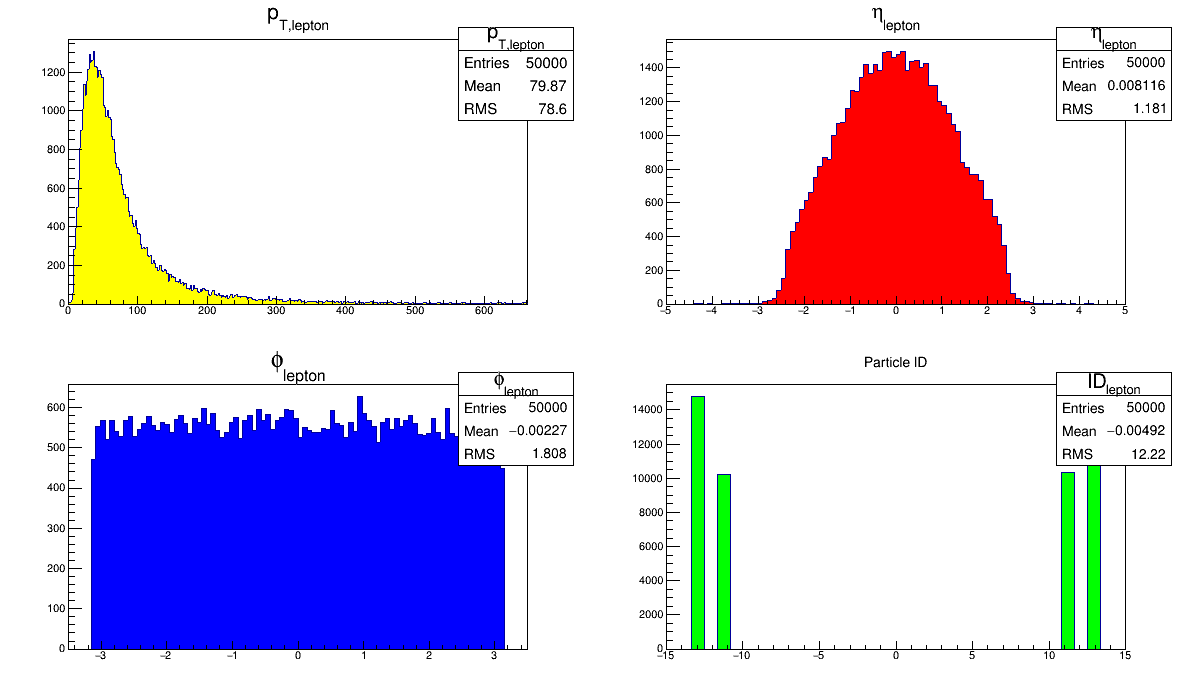
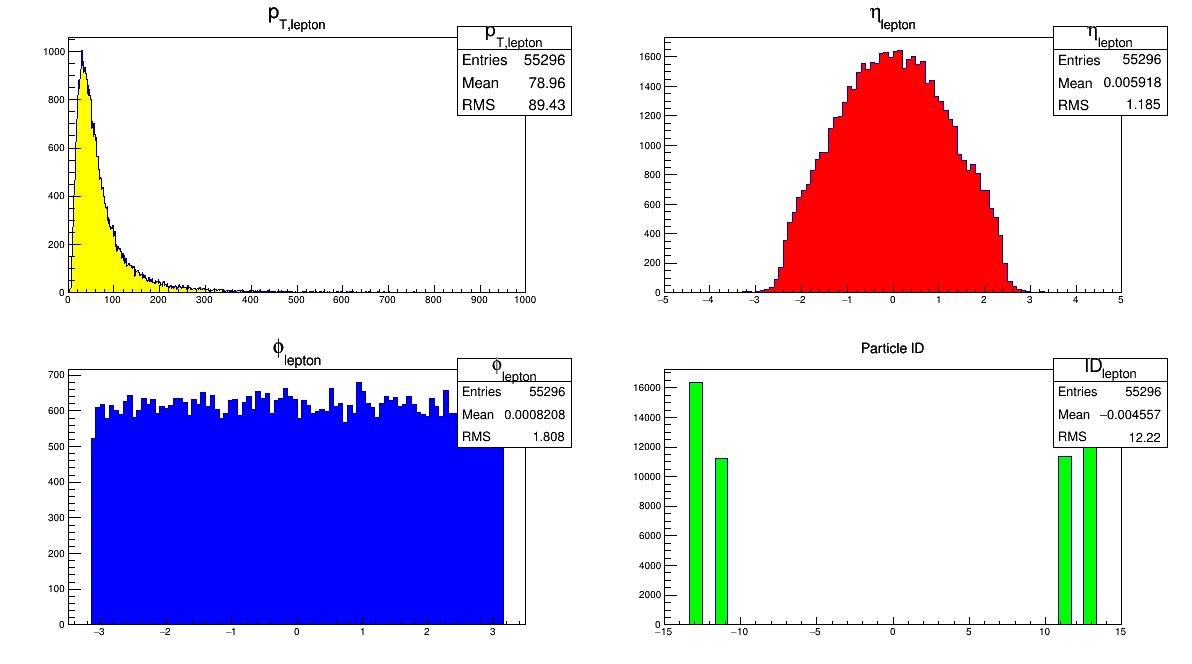
Uploading resized plots

diff --git a/WpWmJJ/myselector.C b/WpWmJJ/myselector.C
@@ -27,11 +27,12 @@
 #include <TH2.h>
 #include <TStyle.h>
 
-#define ptbins 1000
+#define ptbins 800
 #define etabins 100
 #define phibins 100
 #define mbins 1000
 TString opzioni, dir;
+unsigned int entries = 0;
 
 void myselector::Begin(TTree * /*tree*/)
 {
@@ -39,15 +40,18 @@ void myselector::Begin(TTree * /*tree*/)
    // When running with PROOF Begin() is only called on the client.
    // The tree argument is deprecated (on PROOF 0 is passed).
 
-   _histo_LHElepton_pt = new TH1F ("p_{T,lepton}","p_{T,lepton}",ptbins,0,2000.);
+   //_histo_LHElepton_pt = new TH1F ("p_{T,lepton}","p_{T,lepton}",ptbins,0,2000.);
+   _histo_LHElepton_pt = new TH1F ("p_{T,lepton}","p_{T,lepton}",ptbins,0,1000.);
    _histo_LHElepton_eta = new TH1F ("#eta_{lepton}","#eta_{lepton}",etabins,-5,5);
    _histo_LHElepton_phi = new TH1F ("#phi_{lepton}","#phi_{lepton}",phibins,-3.5,3.5);
    _histo_LHElepton_id = new TH1F ("ID_{lepton}","Particle ID",36,18,18);
-   _histo_LHEparton_pt = new TH1F ("p_{T,parton}","p_{T,parton}",ptbins,0,2000.);
+   //_histo_LHEparton_pt = new TH1F ("p_{T,parton}","p_{T,parton}",ptbins,0,2000.);
+   _histo_LHEparton_pt = new TH1F ("p_{T,parton}","p_{T,parton}",ptbins,0,200.);
    _histo_LHEparton_eta = new TH1F ("#eta_{parton}","#eta_{parton}",etabins,-8,8);
    _histo_LHEparton_phi = new TH1F ("#phi_{parton}","#phi_{parton}",phibins,-3.5,3.5);
    _histo_LHEparton_id = new TH1F ("ID_{parton}","Particle ID",36,-18,18);
-   _histo_metLHE_pt = new TH1F ("p_{T,MET}","p_{T,MET}",ptbins,0,2200.);
+   //_histo_metLHE_pt = new TH1F ("p_{T,MET}","p_{T,MET}",ptbins,0,2200.);
+   _histo_metLHE_pt = new TH1F ("p_{T,MET}","p_{T,MET}",ptbins,0,1000.);
    _histo_metLHE_eta = new TH1F ("#eta_{MET}","#eta_{MET}",etabins,-5,5);
    _histo_metLHE_phi = new TH1F ("#phi_{MET}","#phi_{MET}",phibins,-3.5,3.5);
    _histo_jj_deltaeta = new TH1F ("#Delta#eta", "#Delta#eta_{jet-jet}", etabins, 0, +10);
@@ -58,12 +62,13 @@ void myselector::Begin(TTree * /*tree*/)
    _histo2_mlvlv_t_mlvlv = new TH2F ("M^{T}_{l#nul#nu} vs M_{l#nul#nu}", "M^{T}_{l#nul#nu} vs M_{l#nul#nu}", mbins, 0., 1500., ptbins, 0., 1200.);
    TString option = GetOption();
    opzioni = option;
+   
    switch(opzioni){
       case "selection":
-         dir("Selection");
+         opzioni = "Selection/";
          break;
       case "raw":
-         dir("Raw");
+         opzioni = "Raw/";
          break;
    }
 
@@ -172,6 +177,8 @@ Bool_t myselector::Process(Long64_t entry)
 
    }
 
+   entries = entry;
+
    return kTRUE;
 }
 
@@ -188,11 +195,14 @@ void myselector::Terminate()
    // The Terminate() function is the last function to be called during
    // a query. It always runs on the client, it can be used to present
    // the results graphically or save the results to file.
-
+   
+   TStyle *th1Style = new TStyle(*gStyle);
+   th1Style->cd();
    gStyle->SetOptFit(1111);
-   TString file;
+   //TString file;
 
-   TCanvas* c1 = new TCanvas ("c1", "c1", 1200, 800);
+   //TCanvas* c1 = new TCanvas ("c1", "c1", 1200, 800);
+   TCanvas* c1 = new TCanvas ("c1", "c1", 1196, 690);
    c1->Divide(2, 2);
    _histo_LHElepton_pt->SetFillColor(kYellow);
    _histo_LHElepton_eta->SetFillColor(kRed);
@@ -206,9 +216,8 @@ void myselector::Terminate()
    _histo_LHElepton_phi->Draw();
    c1->cd(4);
    _histo_LHElepton_id->Draw();
-   //c1->Print("Selection/leptons.png");
 
-   TCanvas* c2 = new TCanvas ("c2", "c2", 1200, 800);
+   TCanvas* c2 = new TCanvas ("c2", "c2", 1196, 690);
    c2->Divide(2, 2);
    _histo_LHEparton_pt->SetFillColor(kYellow);
    _histo_LHEparton_eta->SetFillColor(kRed);
@@ -222,9 +231,8 @@ void myselector::Terminate()
    _histo_LHEparton_phi->Draw();
    c2->cd(4);
    _histo_LHEparton_id->Draw();
-   //c2->Print("Selection/partons.png");
 
-   TCanvas* c3 = new TCanvas ("c3", "c3", 1200, 800);
+   TCanvas* c3 = new TCanvas ("c3", "c3", 1196, 690);
    c3->Divide(2, 2);
    _histo_metLHE_pt->SetFillColor(kYellow);
    _histo_metLHE_eta->SetFillColor(kRed);
@@ -235,37 +243,75 @@ void myselector::Terminate()
    _histo_metLHE_eta->Draw();
    c3->cd(3);
    _histo_metLHE_phi->Draw();
-   //c3->Print("Selection/MET.png");
 
    TCanvas* c4 = new TCanvas ("c4", "c4", 1200, 800);
    _histo_jj_deltaeta->SetFillColor(kYellow);
    _histo_jj_deltaeta->Draw();
-   //c4->Print("Selection/deltaeta_jj.png");
 
    TCanvas* c5 = new TCanvas ("c5", "c5", 1200, 800);
    _histo_jj_m->SetFillColor(kYellow);
    _histo_jj_m->Draw();
-   //c5->Print("Selection/mass_jj.png");
 
    TCanvas* c6 = new TCanvas ("c6", "c6", 1200, 800);
    _histo_LHEmlvlv->SetFillColor(kYellow);
    _histo_LHEmlvlv->Draw();
-   //c6->Print("Selection/mass_lvlv.png");
    //TF1* fitfunc = new TF1 ("fitfunc","gaus", 124.995, 125.005);		//Fit della risonanza dell'Higgs
    //fitfunc->SetParameter(1, 125.0);
    //fitfunc->SetParameter(2, 0.008);
    //_histo_LHEmlvlv->Fit("fitfunc", "R");
 
+   /*TStyle *th2Style = new TStyle(*gStyle);
+   th2Style->SetStatX(0.45);
+   th2Style->SetStatY(0.45);
+   th2Style->cd();*/
+
    TCanvas* c7 = new TCanvas ("c7", "c7", 1200, 800);
    _histo2_lepton_pt_mlvlv->Draw("COLZ");
-   //c7->Print("Selection/pt_lepton1_vs_mlvlv.png");
 
    TCanvas* c8 = new TCanvas ("c8", "c8", 1200, 800);
    _histo2_met_pt_mlvlv->Draw("COLZ");
-   //c8->Print("Selection/met_pt_vs_mlvlv.png");
-
+   
    TCanvas* c9 = new TCanvas ("c9", "c9", 1200, 800);
    _histo2_mlvlv_t_mlvlv->Draw("COLZ");
-   //c9->Print("Selection/mlvlv_t_vs_mlvlv.png");
+
+   /*if(entries > 35000) {
+
+   		if(opzioni == "selection") {
+			c1->Print("Selection/leptons.png");
+   			c2->Print("Selection/partons.png");
+  	 		c3->Print("Selection/MET.png");
+  	 		c4->Print("Selection/deltaeta_jj.png");
+  	 		c5->Print("Selection/mass_jj.png");
+   			c6->Print("Selection/mass_lvlv.png");
+   			//c7->Print("Selection/pt_lepton1_vs_mlvlv.png");
+   			//c8->Print("Selection/met_pt_vs_mlvlv.png");
+			//c9->Print("Selection/mlvlv_t_vs_mlvlv.png");
+   		}
+
+   		if(opzioni == "raw") {
+			c1->Print("Raw/leptons.png");
+   			c2->Print("Raw/partons.png");
+  	 		c3->Print("Raw/MET.png");
+  	 		c4->Print("Raw/deltaeta_jj.png");
+  	 		c5->Print("Raw/mass_jj.png");
+   			c6->Print("Raw/mass_lvlv.png");
+   			//c7->Print("Raw/pt_lepton1_vs_mlvlv.png");
+   			//c8->Print("Raw/met_pt_vs_mlvlv.png");
+			//c9->Print("Raw/mlvlv_t_vs_mlvlv.png");
+  		}
+
+	}*/
+
+	if(entries > 35000) {
+		c1->Print(dir + "leptons.png");
+   		c2->Print(dir + "partons.png");
+  	 	c3->Print(dir + "MET.png");
+  	 	c4->Print(dir + "deltaeta_jj.png");
+  	 	c5->Print(dir + "mass_jj.png");
+   		c6->Print(dir + "mass_lvlv.png");
+   		//c7->Print(dir + "pt_lepton1_vs_mlvlv.png");
+   		//c8->Print(dir + "met_pt_vs_mlvlv.png");
+		//c9->Print(dir + "mlvlv_t_vs_mlvlv.png");
+	}
 
 }

diff --git a/WpWpJJ/myselector.C b/WpWpJJ/myselector.C
@@ -27,11 +27,12 @@
 #include <TH2.h>
 #include <TStyle.h>
 
-#define ptbins 1000
+#define ptbins 800
 #define etabins 100
 #define phibins 100
 #define mbins 1000
 TString opzioni, dir;
+unsigned int entries = 0;
 
 void myselector::Begin(TTree * /*tree*/)
 {
@@ -39,15 +40,18 @@ void myselector::Begin(TTree * /*tree*/)
    // When running with PROOF Begin() is only called on the client.
    // The tree argument is deprecated (on PROOF 0 is passed).
 
-   _histo_LHElepton_pt = new TH1F ("p_{T,lepton}","p_{T,lepton}",ptbins,0,2000.);
+   //_histo_LHElepton_pt = new TH1F ("p_{T,lepton}","p_{T,lepton}",ptbins,0,2000.);
+   _histo_LHElepton_pt = new TH1F ("p_{T,lepton}","p_{T,lepton}",ptbins,0,1000.);
    _histo_LHElepton_eta = new TH1F ("#eta_{lepton}","#eta_{lepton}",etabins,-5,5);
    _histo_LHElepton_phi = new TH1F ("#phi_{lepton}","#phi_{lepton}",phibins,-3.5,3.5);
    _histo_LHElepton_id = new TH1F ("ID_{lepton}","Particle ID",36,18,18);
-   _histo_LHEparton_pt = new TH1F ("p_{T,parton}","p_{T,parton}",ptbins,0,2000.);
+   //_histo_LHEparton_pt = new TH1F ("p_{T,parton}","p_{T,parton}",ptbins,0,2000.);
+   _histo_LHEparton_pt = new TH1F ("p_{T,parton}","p_{T,parton}",ptbins,0,200.);
    _histo_LHEparton_eta = new TH1F ("#eta_{parton}","#eta_{parton}",etabins,-8,8);
    _histo_LHEparton_phi = new TH1F ("#phi_{parton}","#phi_{parton}",phibins,-3.5,3.5);
    _histo_LHEparton_id = new TH1F ("ID_{parton}","Particle ID",36,-18,18);
-   _histo_metLHE_pt = new TH1F ("p_{T,MET}","p_{T,MET}",ptbins,0,2200.);
+   //_histo_metLHE_pt = new TH1F ("p_{T,MET}","p_{T,MET}",ptbins,0,2200.);
+   _histo_metLHE_pt = new TH1F ("p_{T,MET}","p_{T,MET}",ptbins,0,1000.);
    _histo_metLHE_eta = new TH1F ("#eta_{MET}","#eta_{MET}",etabins,-5,5);
    _histo_metLHE_phi = new TH1F ("#phi_{MET}","#phi_{MET}",phibins,-3.5,3.5);
    _histo_jj_deltaeta = new TH1F ("#Delta#eta", "#Delta#eta_{jet-jet}", etabins, 0, +10);
@@ -58,12 +62,13 @@ void myselector::Begin(TTree * /*tree*/)
    _histo2_mlvlv_t_mlvlv = new TH2F ("M^{T}_{l#nul#nu} vs M_{l#nul#nu}", "M^{T}_{l#nul#nu} vs M_{l#nul#nu}", mbins, 0., 1500., ptbins, 0., 1200.);
    TString option = GetOption();
    opzioni = option;
+   
    switch(opzioni){
       case "selection":
-         dir("Selection");
+         opzioni = "Selection/";
          break;
       case "raw":
-         dir("Raw");
+         opzioni = "Raw/";
          break;
    }
 
@@ -172,6 +177,8 @@ Bool_t myselector::Process(Long64_t entry)
 
    }
 
+   entries = entry;
+
    return kTRUE;
 }
 
@@ -188,11 +195,14 @@ void myselector::Terminate()
    // The Terminate() function is the last function to be called during
    // a query. It always runs on the client, it can be used to present
    // the results graphically or save the results to file.
-
+   
+   TStyle *th1Style = new TStyle(*gStyle);
+   th1Style->cd();
    gStyle->SetOptFit(1111);
-   TString file;
+   //TString file;
 
-   TCanvas* c1 = new TCanvas ("c1", "c1", 1200, 800);
+   //TCanvas* c1 = new TCanvas ("c1", "c1", 1200, 800);
+   TCanvas* c1 = new TCanvas ("c1", "c1", 1196, 690);
    c1->Divide(2, 2);
    _histo_LHElepton_pt->SetFillColor(kYellow);
    _histo_LHElepton_eta->SetFillColor(kRed);
@@ -206,9 +216,8 @@ void myselector::Terminate()
    _histo_LHElepton_phi->Draw();
    c1->cd(4);
    _histo_LHElepton_id->Draw();
-   //c1->Print("Selection/leptons.png");
 
-   TCanvas* c2 = new TCanvas ("c2", "c2", 1200, 800);
+   TCanvas* c2 = new TCanvas ("c2", "c2", 1196, 690);
    c2->Divide(2, 2);
    _histo_LHEparton_pt->SetFillColor(kYellow);
    _histo_LHEparton_eta->SetFillColor(kRed);
@@ -222,9 +231,8 @@ void myselector::Terminate()
    _histo_LHEparton_phi->Draw();
    c2->cd(4);
    _histo_LHEparton_id->Draw();
-   //c2->Print("Selection/partons.png");
 
-   TCanvas* c3 = new TCanvas ("c3", "c3", 1200, 800);
+   TCanvas* c3 = new TCanvas ("c3", "c3", 1196, 690);
    c3->Divide(2, 2);
    _histo_metLHE_pt->SetFillColor(kYellow);
    _histo_metLHE_eta->SetFillColor(kRed);
@@ -235,37 +243,75 @@ void myselector::Terminate()
    _histo_metLHE_eta->Draw();
    c3->cd(3);
    _histo_metLHE_phi->Draw();
-   //c3->Print("Selection/MET.png");
 
    TCanvas* c4 = new TCanvas ("c4", "c4", 1200, 800);
    _histo_jj_deltaeta->SetFillColor(kYellow);
    _histo_jj_deltaeta->Draw();
-   //c4->Print("Selection/deltaeta_jj.png");
 
    TCanvas* c5 = new TCanvas ("c5", "c5", 1200, 800);
    _histo_jj_m->SetFillColor(kYellow);
    _histo_jj_m->Draw();
-   //c5->Print("Selection/mass_jj.png");
 
    TCanvas* c6 = new TCanvas ("c6", "c6", 1200, 800);
    _histo_LHEmlvlv->SetFillColor(kYellow);
    _histo_LHEmlvlv->Draw();
-   //c6->Print("Selection/mass_lvlv.png");
    //TF1* fitfunc = new TF1 ("fitfunc","gaus", 124.995, 125.005);		//Fit della risonanza dell'Higgs
    //fitfunc->SetParameter(1, 125.0);
    //fitfunc->SetParameter(2, 0.008);
    //_histo_LHEmlvlv->Fit("fitfunc", "R");
 
+   /*TStyle *th2Style = new TStyle(*gStyle);
+   th2Style->SetStatX(0.45);
+   th2Style->SetStatY(0.45);
+   th2Style->cd();*/
+
    TCanvas* c7 = new TCanvas ("c7", "c7", 1200, 800);
    _histo2_lepton_pt_mlvlv->Draw("COLZ");
-   //c7->Print("Selection/pt_lepton1_vs_mlvlv.png");
 
    TCanvas* c8 = new TCanvas ("c8", "c8", 1200, 800);
    _histo2_met_pt_mlvlv->Draw("COLZ");
-   //c8->Print("Selection/met_pt_vs_mlvlv.png");
-
+   
    TCanvas* c9 = new TCanvas ("c9", "c9", 1200, 800);
    _histo2_mlvlv_t_mlvlv->Draw("COLZ");
-   //c9->Print("Selection/mlvlv_t_vs_mlvlv.png");
+
+   /*if(entries > 35000) {
+
+   		if(opzioni == "selection") {
+			c1->Print("Selection/leptons.png");
+   			c2->Print("Selection/partons.png");
+  	 		c3->Print("Selection/MET.png");
+  	 		c4->Print("Selection/deltaeta_jj.png");
+  	 		c5->Print("Selection/mass_jj.png");
+   			c6->Print("Selection/mass_lvlv.png");
+   			//c7->Print("Selection/pt_lepton1_vs_mlvlv.png");
+   			//c8->Print("Selection/met_pt_vs_mlvlv.png");
+			//c9->Print("Selection/mlvlv_t_vs_mlvlv.png");
+   		}
+
+   		if(opzioni == "raw") {
+			c1->Print("Raw/leptons.png");
+   			c2->Print("Raw/partons.png");
+  	 		c3->Print("Raw/MET.png");
+  	 		c4->Print("Raw/deltaeta_jj.png");
+  	 		c5->Print("Raw/mass_jj.png");
+   			c6->Print("Raw/mass_lvlv.png");
+   			//c7->Print("Raw/pt_lepton1_vs_mlvlv.png");
+   			//c8->Print("Raw/met_pt_vs_mlvlv.png");
+			//c9->Print("Raw/mlvlv_t_vs_mlvlv.png");
+  		}
+
+	}*/
+
+	if(entries > 35000) {
+		c1->Print(dir + "leptons.png");
+   		c2->Print(dir + "partons.png");
+  	 	c3->Print(dir + "MET.png");
+  	 	c4->Print(dir + "deltaeta_jj.png");
+  	 	c5->Print(dir + "mass_jj.png");
+   		c6->Print(dir + "mass_lvlv.png");
+   		//c7->Print(dir + "pt_lepton1_vs_mlvlv.png");
+   		//c8->Print(dir + "met_pt_vs_mlvlv.png");
+		//c9->Print(dir + "mlvlv_t_vs_mlvlv.png");
+	}
 
 }

diff --git a/WpWmJJ/macro.C b/WpWmJJ/macro.C
@@ -1,3 +1,8 @@
+/*
+option è l'argomento per determinare la selezione sugli eventi:
+"raw":			No selection
+"selection":	pt1 > 30. && fabs(eta1) < 4.7 && pt2 > 30. && fabs(eta2) < 4.7 && abs(lepton_id1) != 15 && abs(lepton_id2) != 15 && LHE_mlvlv > 130.
+*/
 void macro(int entries, TString option) {
 	//gRoot->Reset();
 	TFile *_file0 = TFile::Open("latino_WpWmJJ_EWK.root");

diff --git a/WpWpJJ/macro.C b/WpWpJJ/macro.C
@@ -1,3 +1,8 @@
+/*
+option è l'argomento per determinare la selezione sugli eventi:
+"raw":			No selection
+"selection":	pt1 > 30. && fabs(eta1) < 4.7 && pt2 > 30. && fabs(eta2) < 4.7 && abs(lepton_id1) != 15 && abs(lepton_id2) != 15 && LHE_mlvlv > 130.
+*/
 void macro(int entries, TString option) {
 	//gRoot->Reset();
 	TFile *_file0 = TFile::Open("latino_WpWpJJ_EWK.root");
